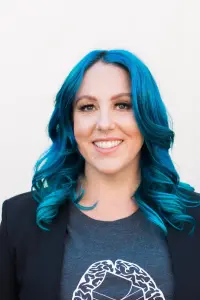
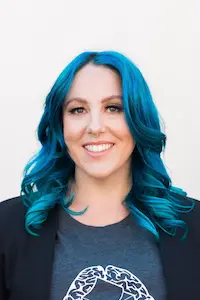
Update Event “davos”

diff --git a/src/content/events/davos.md b/src/content/events/davos.md
@@ -110,9 +110,9 @@ speakers:
       company: Filecoin Foundation
       linkedin: https://www.linkedin.com/in/rachelgreenhorn/
       image:
-        src: /assets/images/rachel-horn-davos.webp
+        src: /assets/images/meredith-pallante-davos.webp
     - image:
-        src: /assets/images/porter-stowell-davos.webp
+        src: /assets/images/porter-stowell-davos.jpg
       name: Porter Stowell
       title: Head of Ecosystem & Community
       company: Filecoin Foundation
@@ -134,7 +134,7 @@ speakers:
       company: Filecoin Foundation
       linkedin: https://www.linkedin.com/in/jlfahle/
       image:
-        src: /assets/images/jordan-fahle-davos.png
+        src: /assets/images/jordan-fahle-davos.webp
 sponsors:
   first-tier:
     - name: GBBC
